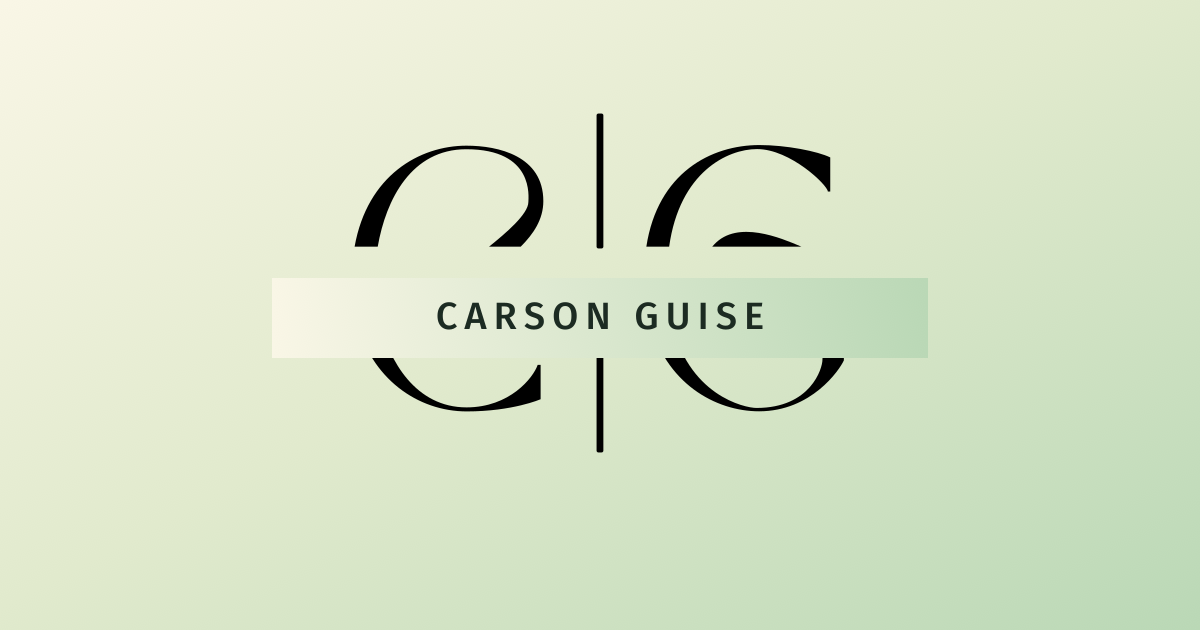
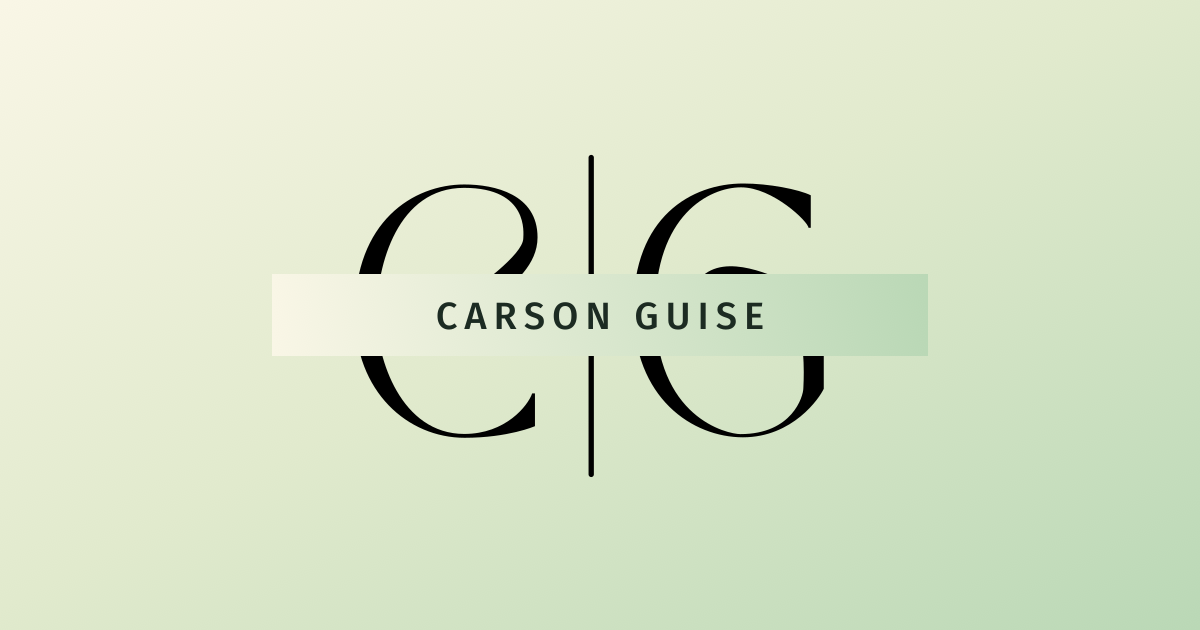
11/19 - Fixing Preview

diff --git a/index.html b/index.html
@@ -10,8 +10,8 @@
   <meta property="og:title" content="Carson Guise — RIT Marketing Portfolio">
   <meta property="og:description" content="Meet Carson Guise, a fourth-year RIT Marketing student. Explore professional experiences and selected marketing projects.">
   <meta property="og:url" content="https://carsonguise.github.io/">
-  <meta property="og:image" content="https://carsonguise.github.io/carson-guise-social-preview-v1.png">
-  <meta property="og:image:secure_url" content="https://carsonguise.github.io/carson-guise-social-preview-v1.png">
+  <meta property="og:image" content="https://carsonguise.github.io/carson-guise-social-preview-v2.png">
+  <meta property="og:image:secure_url" content="https://carsonguise.github.io/carson-guise-social-preview-v2.png">
   <meta property="og:image:type" content="image/png">
   <meta property="og:image:width" content="1200">
   <meta property="og:image:height" content="630">
@@ -19,9 +19,9 @@
   <meta name="twitter:card" content="summary_large_image">
   <meta name="twitter:title" content="Carson Guise — RIT Marketing Portfolio">
   <meta name="twitter:description" content="Meet Carson Guise, a fourth-year RIT Marketing student. Explore professional experiences and selected marketing projects.">
-  <meta name="twitter:image" content="https://carsonguise.github.io/carson-guise-social-preview-v1.png">
+  <meta name="twitter:image" content="https://carsonguise.github.io/carson-guise-social-preview-v2.png">
   <meta name="twitter:image:alt" content="Carson Guise’s CG logo and full name on a cream-to-sage green gradient.">
-  <link rel="image_src" href="https://carsonguise.github.io/carson-guise-social-preview-v1.png">
+  <link rel="image_src" href="https://carsonguise.github.io/carson-guise-social-preview-v2.png">
   <meta name="theme-color" content="#f9f6e6">
   <title>Carson Guise — RIT Marketing Portfolio</title>
   <link rel="icon" href="cg-full.svg" type="image/svg+xml">

diff --git a/about.html b/about.html
@@ -10,8 +10,8 @@
   <meta property="og:title" content="About Me — Carson Guise">
   <meta property="og:description" content="Meet Carson Guise, a fourth-year Marketing student at RIT with interests in strategy, music, fashion, and culture.">
   <meta property="og:url" content="https://carsonguise.github.io/about.html">
-  <meta property="og:image" content="https://carsonguise.github.io/carson-guise-social-preview-v1.png">
-  <meta property="og:image:secure_url" content="https://carsonguise.github.io/carson-guise-social-preview-v1.png">
+  <meta property="og:image" content="https://carsonguise.github.io/carson-guise-social-preview-v2.png">
+  <meta property="og:image:secure_url" content="https://carsonguise.github.io/carson-guise-social-preview-v2.png">
   <meta property="og:image:type" content="image/png">
   <meta property="og:image:width" content="1200">
   <meta property="og:image:height" content="630">
@@ -19,9 +19,9 @@
   <meta name="twitter:card" content="summary_large_image">
   <meta name="twitter:title" content="About Me — Carson Guise">
   <meta name="twitter:description" content="Meet Carson Guise, a fourth-year Marketing student at RIT with interests in strategy, music, fashion, and culture.">
-  <meta name="twitter:image" content="https://carsonguise.github.io/carson-guise-social-preview-v1.png">
+  <meta name="twitter:image" content="https://carsonguise.github.io/carson-guise-social-preview-v2.png">
   <meta name="twitter:image:alt" content="Carson Guise’s CG logo and full name on a cream-to-sage green gradient.">
-  <link rel="image_src" href="https://carsonguise.github.io/carson-guise-social-preview-v1.png">
+  <link rel="image_src" href="https://carsonguise.github.io/carson-guise-social-preview-v2.png">
   <meta name="theme-color" content="#f9f6e6">
   <title>About Me — Carson Guise</title>
   <link rel="icon" href="cg-full.svg" type="image/svg+xml">

diff --git a/projects.html b/projects.html
@@ -10,8 +10,8 @@
   <meta property="og:title" content="Projects — Carson Guise">
   <meta property="og:description" content="Selected projects in marketing strategy, research, public relations, international work, music, and fashion.">
   <meta property="og:url" content="https://carsonguise.github.io/projects.html">
-  <meta property="og:image" content="https://carsonguise.github.io/carson-guise-social-preview-v1.png">
-  <meta property="og:image:secure_url" content="https://carsonguise.github.io/carson-guise-social-preview-v1.png">
+  <meta property="og:image" content="https://carsonguise.github.io/carson-guise-social-preview-v2.png">
+  <meta property="og:image:secure_url" content="https://carsonguise.github.io/carson-guise-social-preview-v2.png">
   <meta property="og:image:type" content="image/png">
   <meta property="og:image:width" content="1200">
   <meta property="og:image:height" content="630">
@@ -19,9 +19,9 @@
   <meta name="twitter:card" content="summary_large_image">
   <meta name="twitter:title" content="Projects — Carson Guise">
   <meta name="twitter:description" content="Selected projects in marketing strategy, research, public relations, international work, music, and fashion.">
-  <meta name="twitter:image" content="https://carsonguise.github.io/carson-guise-social-preview-v1.png">
+  <meta name="twitter:image" content="https://carsonguise.github.io/carson-guise-social-preview-v2.png">
   <meta name="twitter:image:alt" content="Carson Guise’s CG logo and full name on a cream-to-sage green gradient.">
-  <link rel="image_src" href="https://carsonguise.github.io/carson-guise-social-preview-v1.png">
+  <link rel="image_src" href="https://carsonguise.github.io/carson-guise-social-preview-v2.png">
   <meta name="theme-color" content="#f9f6e6">
   <title>Projects — Carson Guise</title>
   <link rel="icon" href="cg-full.svg" type="image/svg+xml">

diff --git a/experiences.html b/experiences.html
@@ -10,8 +10,8 @@
   <meta property="og:title" content="Experiences — Carson Guise">
   <meta property="og:description" content="Explore Carson Guise’s work experience, RIT campus involvement, tools, and qualifications.">
   <meta property="og:url" content="https://carsonguise.github.io/experiences.html">
-  <meta property="og:image" content="https://carsonguise.github.io/carson-guise-social-preview-v1.png">
-  <meta property="og:image:secure_url" content="https://carsonguise.github.io/carson-guise-social-preview-v1.png">
+  <meta property="og:image" content="https://carsonguise.github.io/carson-guise-social-preview-v2.png">
+  <meta property="og:image:secure_url" content="https://carsonguise.github.io/carson-guise-social-preview-v2.png">
   <meta property="og:image:type" content="image/png">
   <meta property="og:image:width" content="1200">
   <meta property="og:image:height" content="630">
@@ -19,9 +19,9 @@
   <meta name="twitter:card" content="summary_large_image">
   <meta name="twitter:title" content="Experiences — Carson Guise">
   <meta name="twitter:description" content="Explore Carson Guise’s work experience, RIT campus involvement, tools, and qualifications.">
-  <meta name="twitter:image" content="https://carsonguise.github.io/carson-guise-social-preview-v1.png">
+  <meta name="twitter:image" content="https://carsonguise.github.io/carson-guise-social-preview-v2.png">
   <meta name="twitter:image:alt" content="Carson Guise’s CG logo and full name on a cream-to-sage green gradient.">
-  <link rel="image_src" href="https://carsonguise.github.io/carson-guise-social-preview-v1.png">
+  <link rel="image_src" href="https://carsonguise.github.io/carson-guise-social-preview-v2.png">
   <meta name="theme-color" content="#f9f6e6">
   <title>Experiences — Carson Guise</title>
   <link rel="icon" href="cg-full.svg" type="image/svg+xml">

diff --git a/contact.html b/contact.html
@@ -10,8 +10,8 @@
   <meta property="og:title" content="Let’s Connect! — Carson Guise">
   <meta property="og:description" content="Start a conversation with Carson Guise by email or LinkedIn.">
   <meta property="og:url" content="https://carsonguise.github.io/contact.html">
-  <meta property="og:image" content="https://carsonguise.github.io/carson-guise-social-preview-v1.png">
-  <meta property="og:image:secure_url" content="https://carsonguise.github.io/carson-guise-social-preview-v1.png">
+  <meta property="og:image" content="https://carsonguise.github.io/carson-guise-social-preview-v2.png">
+  <meta property="og:image:secure_url" content="https://carsonguise.github.io/carson-guise-social-preview-v2.png">
   <meta property="og:image:type" content="image/png">
   <meta property="og:image:width" content="1200">
   <meta property="og:image:height" content="630">
@@ -19,9 +19,9 @@
   <meta name="twitter:card" content="summary_large_image">
   <meta name="twitter:title" content="Let’s Connect! — Carson Guise">
   <meta name="twitter:description" content="Start a conversation with Carson Guise by email or LinkedIn.">
-  <meta name="twitter:image" content="https://carsonguise.github.io/carson-guise-social-preview-v1.png">
+  <meta name="twitter:image" content="https://carsonguise.github.io/carson-guise-social-preview-v2.png">
   <meta name="twitter:image:alt" content="Carson Guise’s CG logo and full name on a cream-to-sage green gradient.">
-  <link rel="image_src" href="https://carsonguise.github.io/carson-guise-social-preview-v1.png">
+  <link rel="image_src" href="https://carsonguise.github.io/carson-guise-social-preview-v2.png">
   <meta name="theme-color" content="#f9f6e6">
   <title>Let’s Connect! — Carson Guise</title>
   <link rel="icon" href="cg-full.svg" type="image/svg+xml">

diff --git a/README.md b/README.md
@@ -10,7 +10,7 @@ This is a flat, buildless website: every file belongs at the same folder level. 
 
 The five pages include 28 projects (4 work and 24 academic), topic filters, search, and inline project document previews. Project details remain one vertical scrolling view, with page arrows, swiping, and keyboard navigation. Main text is approximately 16–17px; small labels are at least 14px.
 
-The shared-link preview is configured for https://carsonguise.github.io/ and uses carson-guise-social-preview-v1.png: Carson’s logo and full name on the green gradient. Upload this image along with all five HTML pages. If the website address changes, its preview URLs need to be updated too.
+The shared-link preview is configured for https://carsonguise.github.io/ and uses carson-guise-social-preview-v2.png: Carson’s logo and full name on the green gradient. Upload this image along with all five HTML pages. If the website address changes, its preview URLs need to be updated too.
 
 The original editable project documents are retained in the private Site source, outside this deployable package. This export contains inline previews without project-file download buttons.
 
